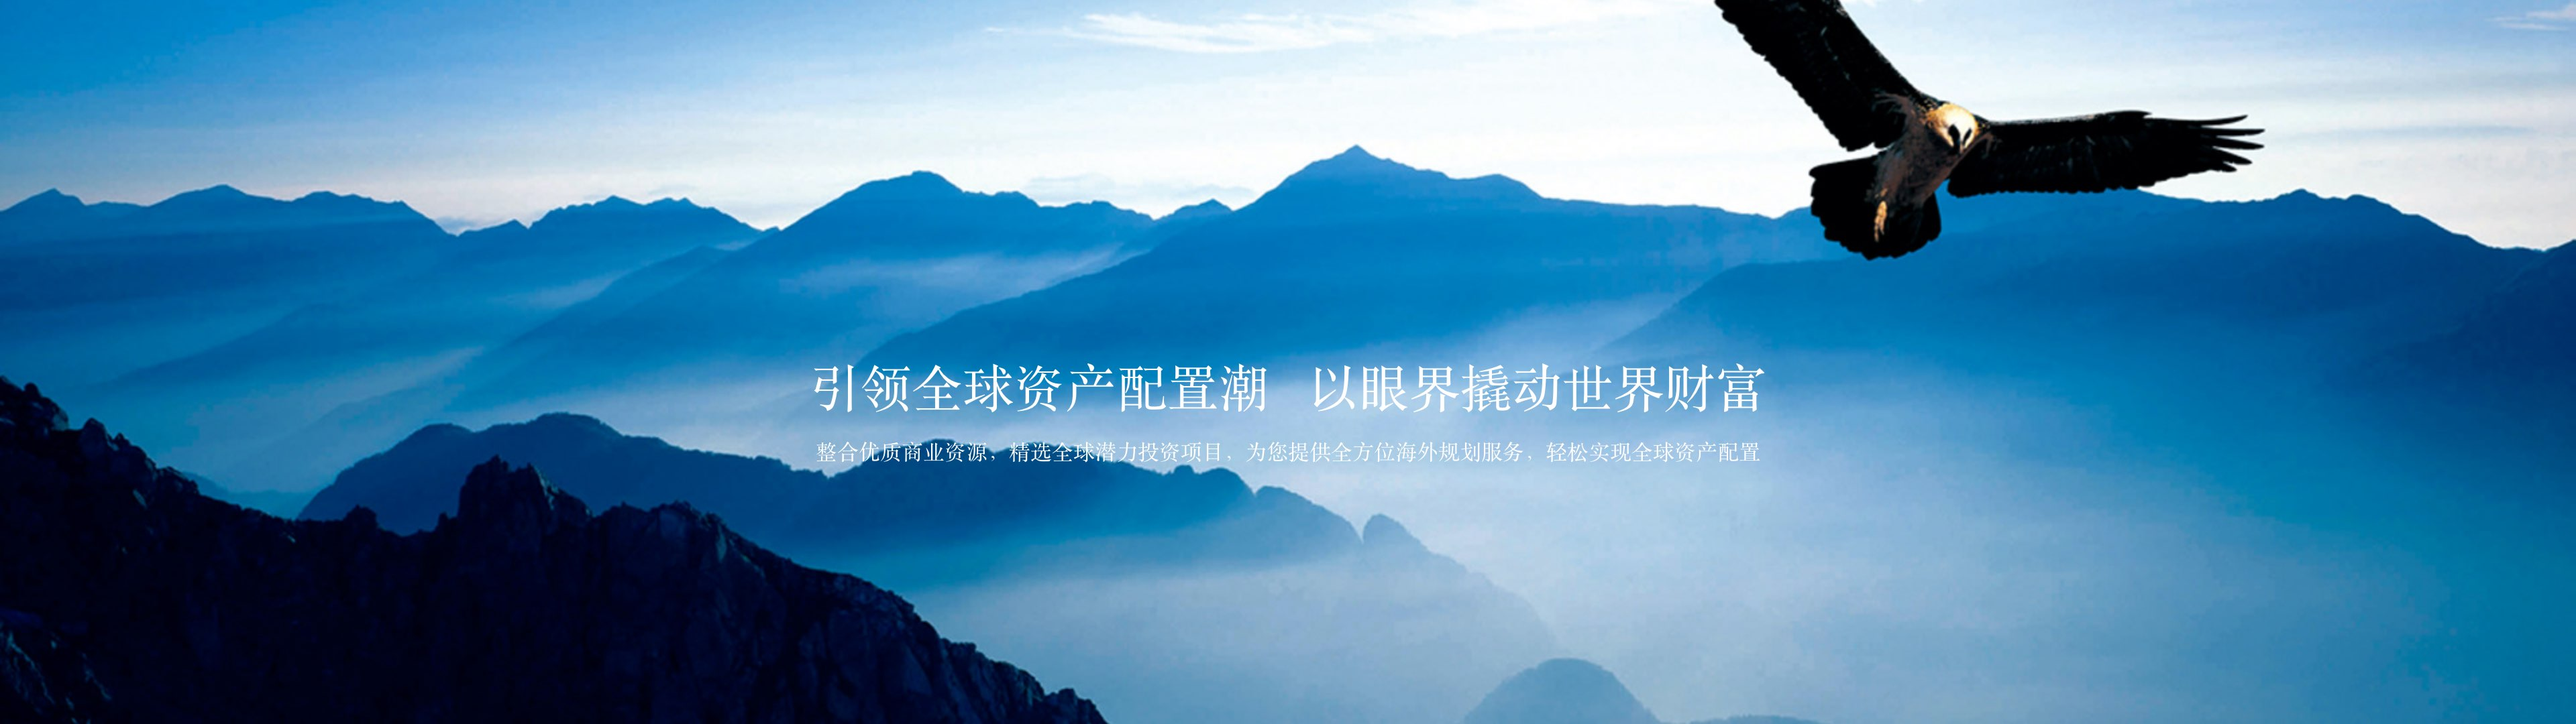
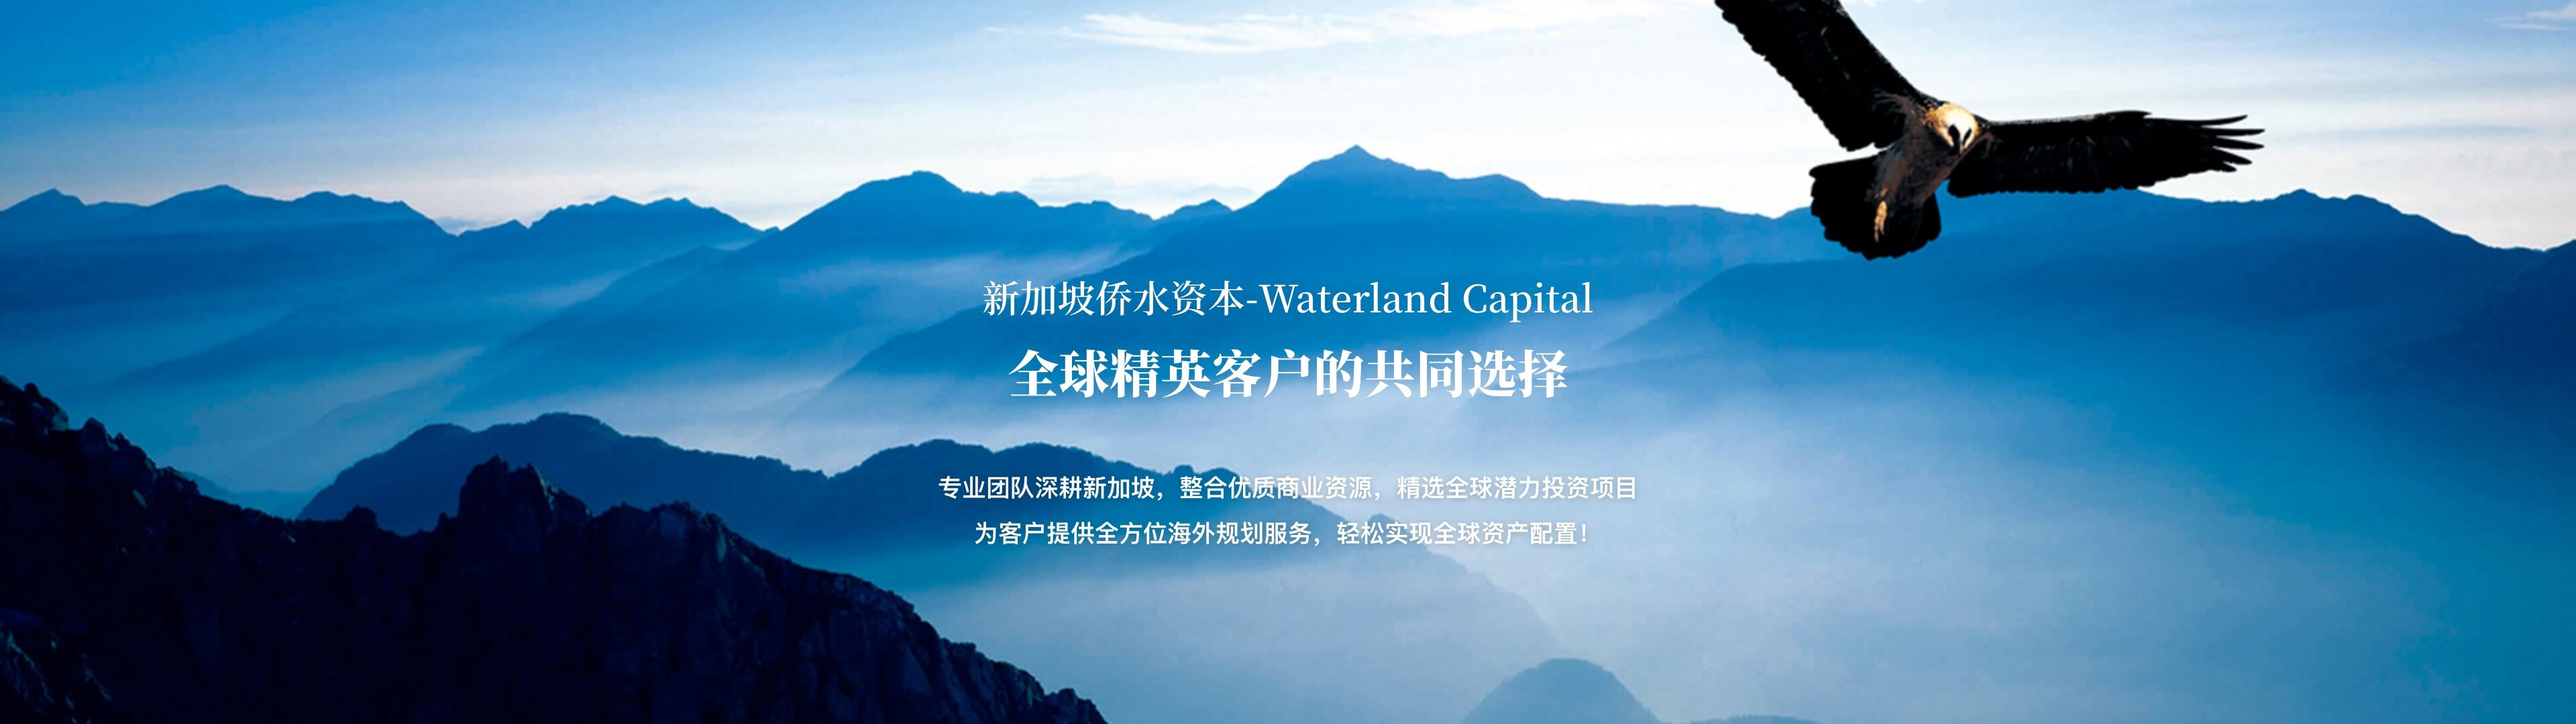
new

Changed region(s): [[0.3125, 0.3667, 0.6875, 0.5806], [0.3125, 0.6111, 0.6875, 0.7639]]

diff --git a/src/views/asset/NewAsset.vue b/src/views/asset/NewAsset.vue
@@ -1,11 +1,12 @@
 <template>
   <div class="asset">
     <div class="banner">
-      <img src="../../assets/images/asset-banner.jpg" />
+      <img class="web-img" src="../../assets/images/asset-banner.jpg" />
+      <img class="wap-img" src="../../assets/images/asset-banner-wap.jpg" />
     </div>
     <div class="des margin-t-80 pc-max-width">
-      <h3>新加坡侨水资本——Singapore Capital—全球精英客户的共同选择</h3>
-      <p>新加坡侨水资本——Singapore Capital专业团队深耕新加坡，整合优质商业资源，精选全球潜力投资项目，为客户提供全方位海外规划服务，轻松实现全球资产配置！</p>
+      <h3>新加坡侨水资本——Waterland Capital—全球精英客户的共同选择</h3>
+      <p>新加坡侨水资本——Waterland Capital专业团队深耕新加坡，整合优质商业资源，精选全球潜力投资项目，为客户提供全方位海外规划服务，轻松实现全球资产配置！</p>
     </div>
     <div class="allocation margin-t-80 pc-max-width">
       <div class="title">
@@ -110,7 +111,7 @@
           <img src="../../assets/images/asset-core-img.jpg" />
         </div>
         <div class="right">
-          <strong>SGPEC 核心优势</strong>
+          <strong>新加坡侨水资本 核心优势</strong>
           <p>优质海外资产甄选供应</p>
           <p>分散投资，最大化利润分成体系实现财富的保值增值</p>
           <p>私人定制客户落地服务</p>
@@ -168,16 +169,7 @@ export default {
 .banner {
   overflow: hidden;
   img {
-    display: block;
     width: 100%;
-  }
-  @media (max-width: 767px) {
-    img {
-      position: relative;
-      width: auto;
-      left: -80%;
-      height: 300px;
-    }
   }
 }
 

diff --git a/src/views/green-card/SingaporeDetails.vue b/src/views/green-card/SingaporeDetails.vue
@@ -6,7 +6,7 @@
 
     <div class="investment margin-t-80 pc-max-width animation-show">
       <strong>创业投资移民</strong>
-      <p>创业投资移民是新加坡侨水资本——Singapore Capital为客户量身定制的专属投资移民方案，是目前新加坡移民法律下最佳的移民方式选择。申请人通过投资创办新加坡公司，获取新加坡政府颁发的创业准证(Entrepass)，当公司运营至满足新加坡政府的指定要求后，便可向新加坡移民局（ICA）申请绿卡，从而移民新加坡，之后可申请全家入籍新加坡，免签超过全球170个国家，为地表名副其实的最强护照。</p>
+      <p>创业投资移民是新加坡侨水资本——Waterland Capital为客户量身定制的专属投资移民方案，是目前新加坡移民法律下最佳的移民方式选择。申请人通过投资创办新加坡公司，获取新加坡政府颁发的创业准证(Entrepass)，当公司运营至满足新加坡政府的指定要求后，便可向新加坡移民局（ICA）申请绿卡，从而移民新加坡，之后可申请全家入籍新加坡，免签超过全球170个国家，为地表名副其实的最强护照。</p>
       <p>该方案以成功率高、专业性强、安全稳定等特点备受客户青睐和好评，迄今已帮助近百位客户顺利移居新加坡。客户无需在新加坡自主运作公司，无需承担公司运营的亏损风险。为客户提供包括评估咨询、专业文案、政府沟通、公司监管等专属服务，使申请人的公司满足创业准证申请要求、公司运营情况满足创业准证续签要求，确保移民成功率。</p>
       <span>全球精英最可靠移民方案</span>
     </div>

diff --git a/src/views/about/About.vue b/src/views/about/About.vue
@@ -7,7 +7,7 @@
       <img class="left" src="../../assets/images/we-img.png" />
       <div class="right des">
         <h3>我们是谁？</h3>
-        <h4>SGPEC，我们专业服务于精英。</h4>
+        <h4>新加坡侨水资本，我们专业服务于精英。</h4>
         <p>新加坡侨水资本——Singapore Waterland Capital，总部位于法治严明的新加坡，是多国政府和机构投资移民项目的官方授权持牌机构。作为新加坡行业领先的专业移民机构，以高效快速，隐私保密著称业内。</p>
       </div>
     </div>
@@ -60,7 +60,7 @@
         <div class="right des">
           <h3>我们的服务理念</h3>
           <h4>铸造品质，客户至上。</h4>
-          <p>新加坡侨水资本——Singapore Waterland Capital，立足新加坡，放眼全球，秉承客户隐私至上的服务宗旨，专业铸造品质，服务打造诚信，SGPEC-您可信赖的专业服务。</p>
+          <p>新加坡侨水资本——Singapore Waterland Capital，立足新加坡，放眼全球，秉承客户隐私至上的服务宗旨，专业铸造品质，服务打造诚信，新加坡侨水资本-您可信赖的专业服务。</p>
         </div>
         <img src="../../assets/images/idea-bg.png" class="wap-img" />
       </div>

diff --git a/src/views/project/CyprusDetail.vue b/src/views/project/CyprusDetail.vue
@@ -3,7 +3,19 @@
     <ProjectBanner name="cyprus" />
     <div class="pc-max-width">
       <div class="content clearfix">
-        <div class="left">
+
+        <div class="right">
+          <!-- 评分 -->
+          <Score :score="score" />
+
+          <!-- 地图信息 -->
+          <MapInfo :mapInfo="mapInfo" />
+
+          <!-- 下载手册 -->
+          <DownloadManual countryName="塞浦路斯 <br /> Cyprus" />
+        </div>  
+
+        <div class="left" id="project-left-content">
           <!-- 项目简介 -->
           <Introduction :introduction="introduction" />
 
@@ -20,16 +32,6 @@
           <Application :application="application" />
           
         </div>
-        <div class="right">
-          <!-- 评分 -->
-          <Score :score="score" />
-
-          <!-- 地图信息 -->
-          <MapInfo :mapInfo="mapInfo" />
-
-          <!-- 下载手册 -->
-          <DownloadManual countryName="塞浦路斯 <br /> Cyprus" />
-        </div>  
       </div>
     </div>
     <ContentImg />

diff --git a/src/views/project/base/MapInfo.vue b/src/views/project/base/MapInfo.vue
@@ -13,6 +13,31 @@
 export default {
   props: {
     mapInfo: Object
+  },
+  methods: {
+    nameFixel () {
+      let contentHeight = document.getElementById('project-left-content').clientHeight // 对照物高度
+      let picBox = document.getElementsByClassName('map')[0] //  吸顶自身
+      let top = document.documentElement.scrollTop || document.body.scrollTop
+      if (top > 400) {
+        if (top > contentHeight - 462) {
+          picBox.style.position = 'relative'
+          picBox.style.overflow = 'visible'
+          picBox.style.top = contentHeight - 900 + 'px'
+          return
+        }
+        picBox.style.position = 'relative'
+        picBox.style.overflow = 'visible'
+        picBox.style.top = top - 400 + 'px'
+      } else {
+        picBox.style.position = 'relative'
+        picBox.style.overflow = 'visible'
+        picBox.style.top = '0px'
+      }
+    }
+  },
+  mounted () {
+    window.addEventListener('scroll', this.nameFixel)
   }
 }
 </script>

diff --git a/src/views/canada/CanadaProject2.vue b/src/views/canada/CanadaProject2.vue
@@ -54,10 +54,10 @@ export default {
         }
       ],
       projectProcess: [
-        '签订服务协议，SGPEC加拿大移民律师进行一对一客户项目辅导对接，并签署管理协议',
+        '签订服务协议，新加坡侨水资本加拿大移民律师进行一对一客户项目辅导对接，并签署管理协议',
         '设计商业计划书',
         '通过培训获得证书',
-        '获得天使投资的支持信，由SGPEC的专业律师团队代表企业家向加拿大IRCC递交永久居民申请；',
+        '获得天使投资的支持信，由新加坡侨水资本的专业律师团队代表企业家向加拿大IRCC递交永久居民申请；',
         '申请获批枫叶卡，全家随同'
       ]
     }

diff --git a/src/views/home/component/OurTeam.vue b/src/views/home/component/OurTeam.vue
@@ -14,7 +14,7 @@
         <div class="d">
           <img src="../../../assets/images/vicky.png" />
           <div class="detailed">
-            <strong>资深移民顾问  Vicky Chen</strong>
+            <strong>资深移民顾问  Taylor Smith</strong>
             <p>拥有丰富的行业分析和预判能力，专业和细致材料处理能力，深度关注海外资产配置、移民、留学政策，为客户做好长远移民规划，细心严谨的态度让客户后顾无忧，制定更精准的私人化培训方案，做好移民安置和身份规划。</p>
           </div>
         </div>

diff --git a/src/views/study/base/Study4.vue b/src/views/study/base/Study4.vue
@@ -109,12 +109,12 @@ export default {
           },
           {
             icon: require("../../../assets/images/overseas-study/school/mindchaps-logo.png"),
-            name: "Mindchaps",
+            name: "迈杰思幼儿园",
             url: "/mindc-champs",
           },
           {
             icon: require("../../../assets/images/overseas-study/school/myfirstskool-logo.png"),
-            name: "Myfirstskool",
+            name: "My First Skool 幼儿园",
             url: "/my-first-skool",
           },
           {

diff --git a/src/views/home/Home.vue b/src/views/home/Home.vue
@@ -16,9 +16,6 @@
             <a target="_blank" href="https://gd.ifeng.com/c/v002zk7Qk--jElpeoYodb-_OqSikQ9gZgWUv9GfR7T-_oHjzeI__"><img src="../../assets/images/media-img2.png"></a>
           </li>
           <li>
-            <a target="_blank" href=""><img src="../../assets/images/media-img3.png"></a>
-          </li>
-          <li>
             <a target="_blank" href="https://edu.163.com/20/1125/17/FS9VIVUK0029985J.html"><img src="../../assets/images/media-img4.png"></a>
           </li>
           <li>

diff --git a/src/components/commonComponent/footer.vue b/src/components/commonComponent/footer.vue
@@ -38,7 +38,7 @@
         </div>
       </div>
     </div>
-    <div class="copyright">© 2020 Singapore Global Passport Exchange Centre Pte Ltd. All Rights Reserved.</div>
+    <div class="copyright">© 2020 Waterland Capital Pte Ltd. All Rights Reserved.</div>
     <!-- return top -->
     <div class="return-top" v-if="showReturnTop" @click="returnTop">
       <img src="../../assets/images/return-top.png" />

diff --git a/src/views/green-card/PortugalDetails.vue b/src/views/green-card/PortugalDetails.vue
@@ -159,7 +159,7 @@ export default {
           }
         ],
         projectProcess: [
-          '评估/与SGPEC签订服务合约',
+          '评估/与新加坡侨水资本签订服务合约',
           '准备文件材料',
           '完成投资金额转账，缴纳手续费和审查费',
           '提交投资相关文件并支付黄金签证申请费',

diff --git a/src/views/project/MontenegroDetail.vue b/src/views/project/MontenegroDetail.vue
@@ -13,7 +13,7 @@
           <!-- 下载手册 -->
           <DownloadManual countryName="圣卢西亚 <br /> Saint Lucia" />
         </div>  
-        <div class="left">
+        <div class="left" id="project-left-content">
           <!-- 项目简介 -->
           <Introduction :introduction="introduction" />
 
